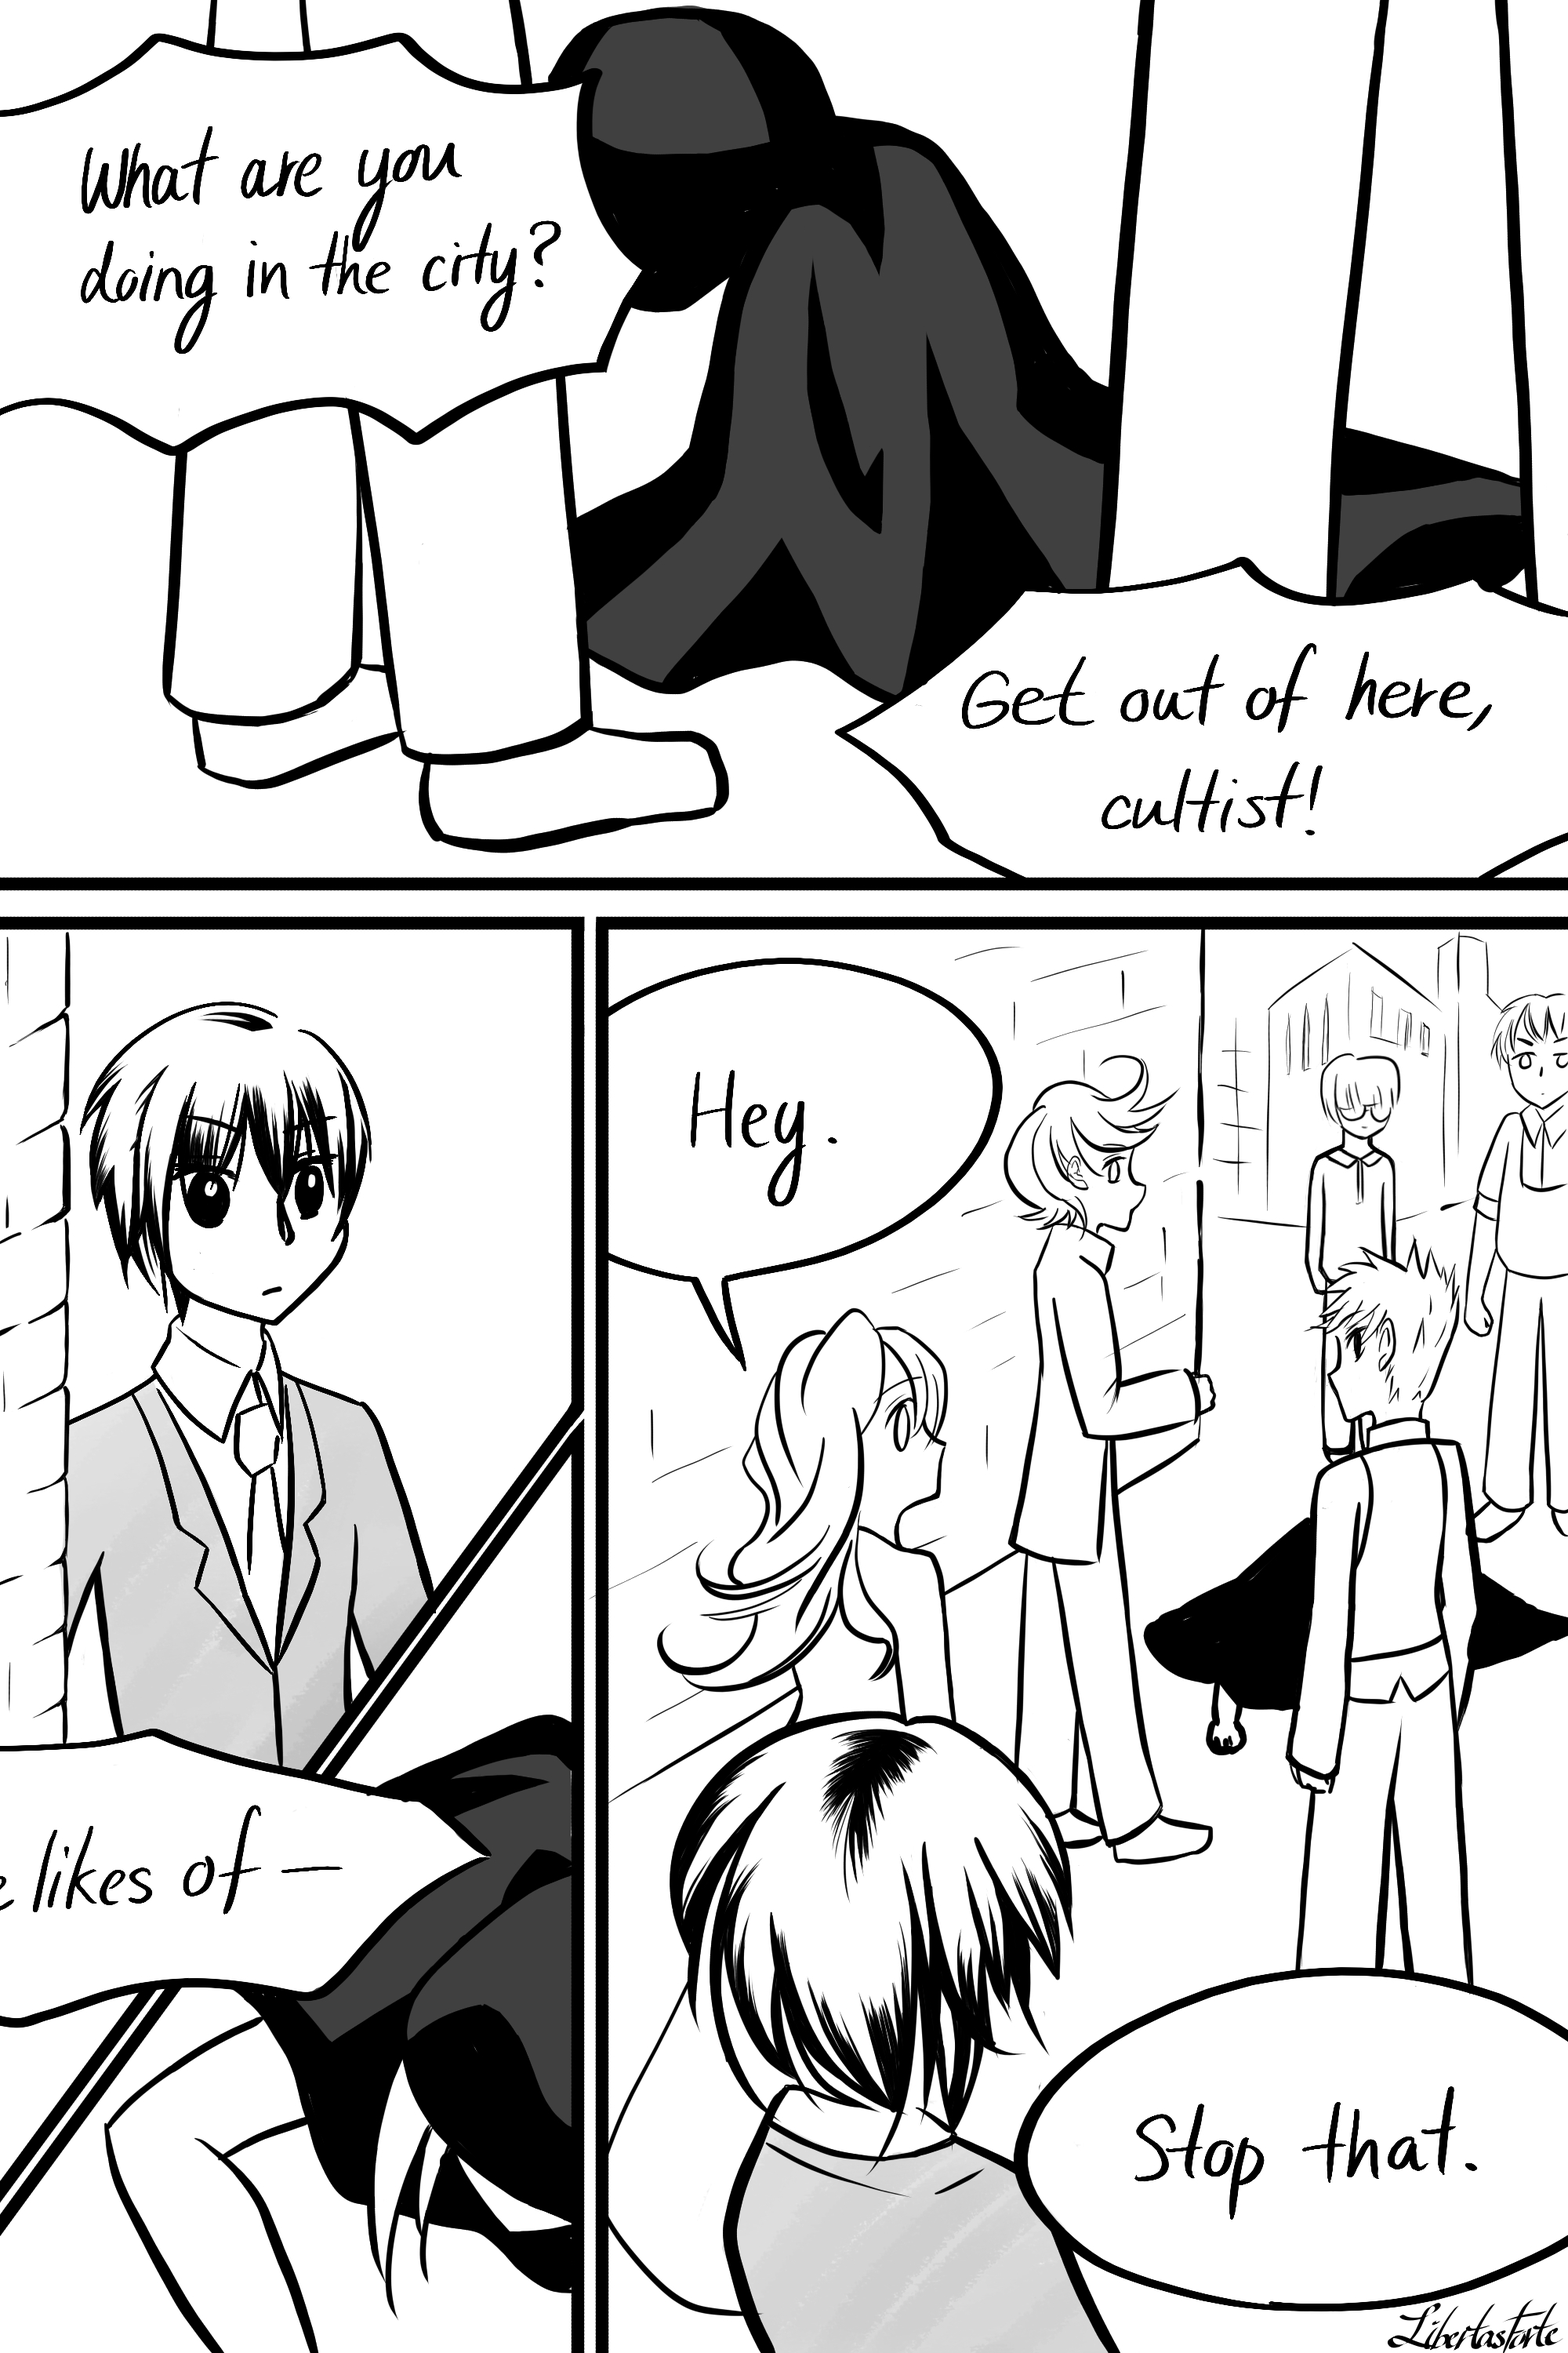
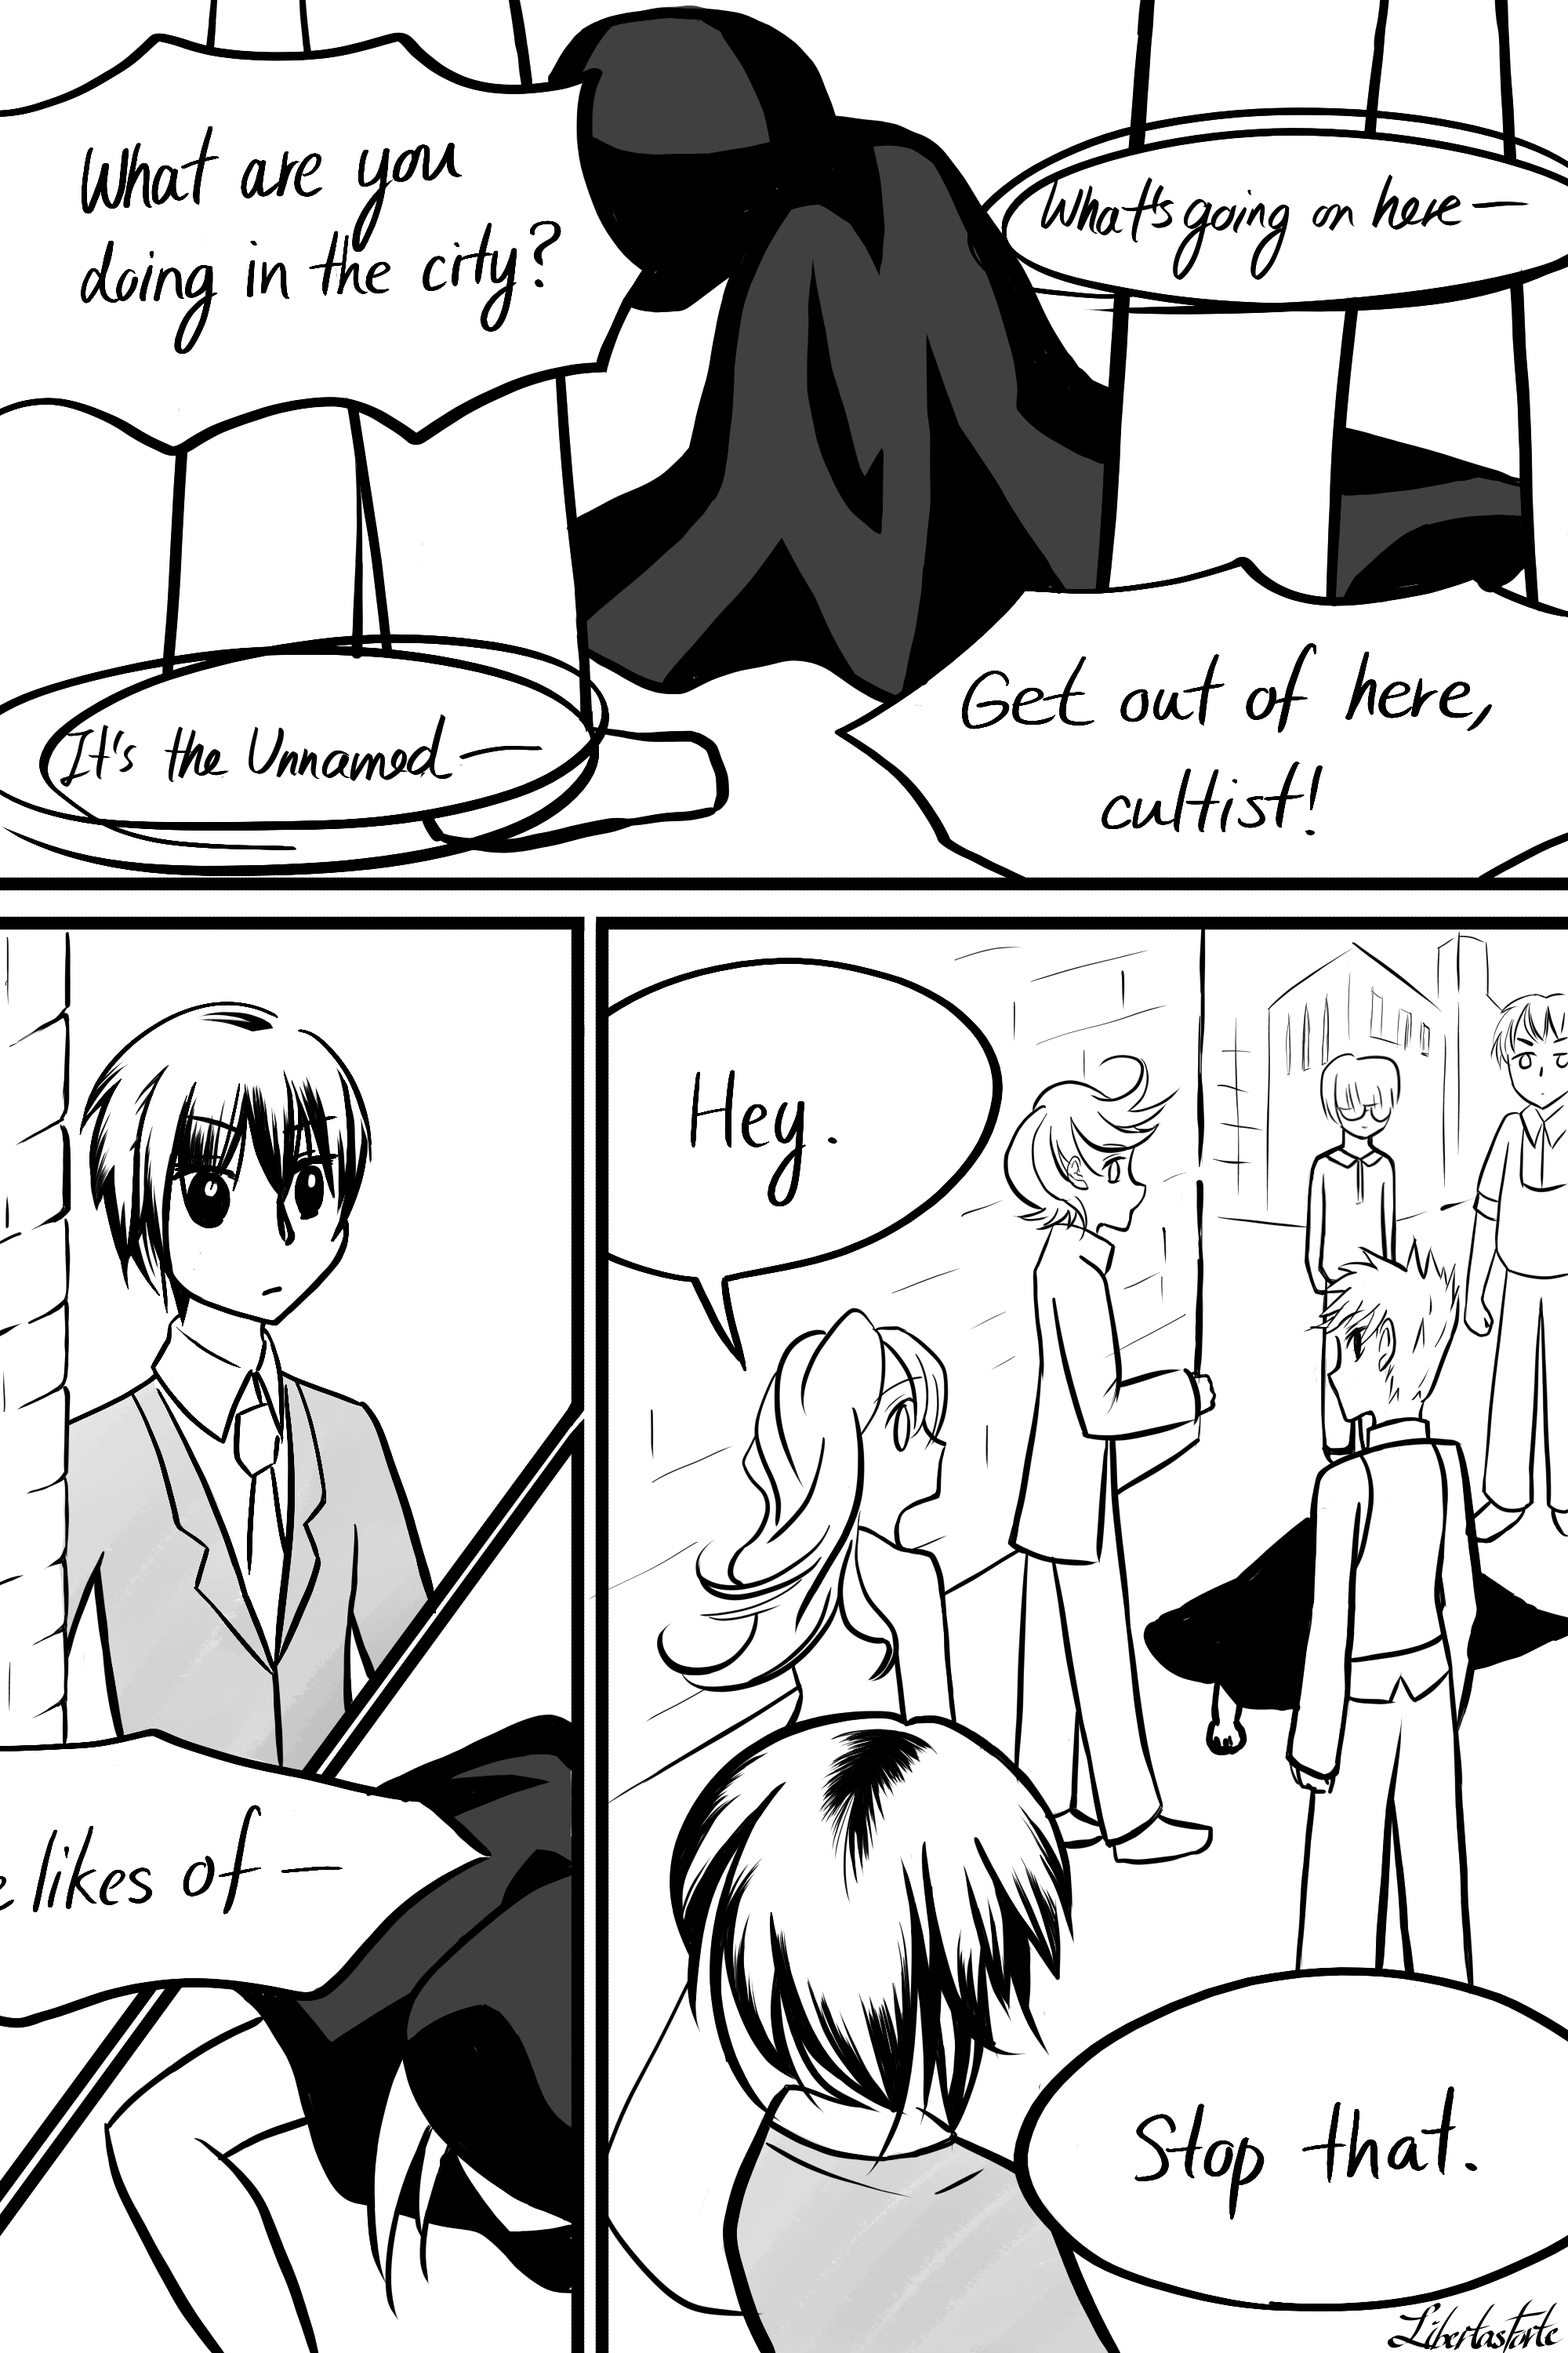
Artemis update & dialogue change

Changed region(s): [[0.0, 0.248, 0.403, 0.372], [0.62, 0.031, 1.0, 0.155]]

diff --git a/artemis/5.html b/artemis/5.html
@@ -15,10 +15,10 @@
 }
 </style>
 <body>
-<p><center><a href="5.html"><img src="pages/4.jpg" id="main"></a></p>
+<p><center><a href="5.html"><img src="pages/5.jpg" id="main"></a></p>
 <p><center>
   <a href="1.html"><img src="../template/arrowleft1.jpg" title="First" id="template1"></a>
-  <a href="3.html"><img src="../template/arrowleft2.jpg" title="Prev" id="template2"></a>
+  <a href="4.html"><img src="../template/arrowleft2.jpg" title="Prev" id="template2"></a>
   <a href="../index.html"><img src="../template/centerline.jpg" title="Back to main page" id="template1"></a>
   <a href="5.html"><img src="../template/arrowright2.jpg" title="Next" id="template2"></a>
   <a href="latest.html"><img src="../template/arrowright1.jpg" title="Latest" id="template1"></p>

diff --git a/artemis/latest.html b/artemis/latest.html
@@ -1,9 +1,9 @@
 <!DOCTYPE html>
 <html>
 <head>
-<meta http-equiv="Refresh" content="0; url=http://libertasforte.github.io/artemis/4.html" />
+<meta http-equiv="Refresh" content="0; url=http://libertasforte.github.io/artemis/5.html" />
 </head>
 <body>
-<p><a href="4.html">Book of Artemis: Latest</a></p>
+<p><a href="5.html">Book of Artemis: Latest</a></p>
 </body>
 </html>
